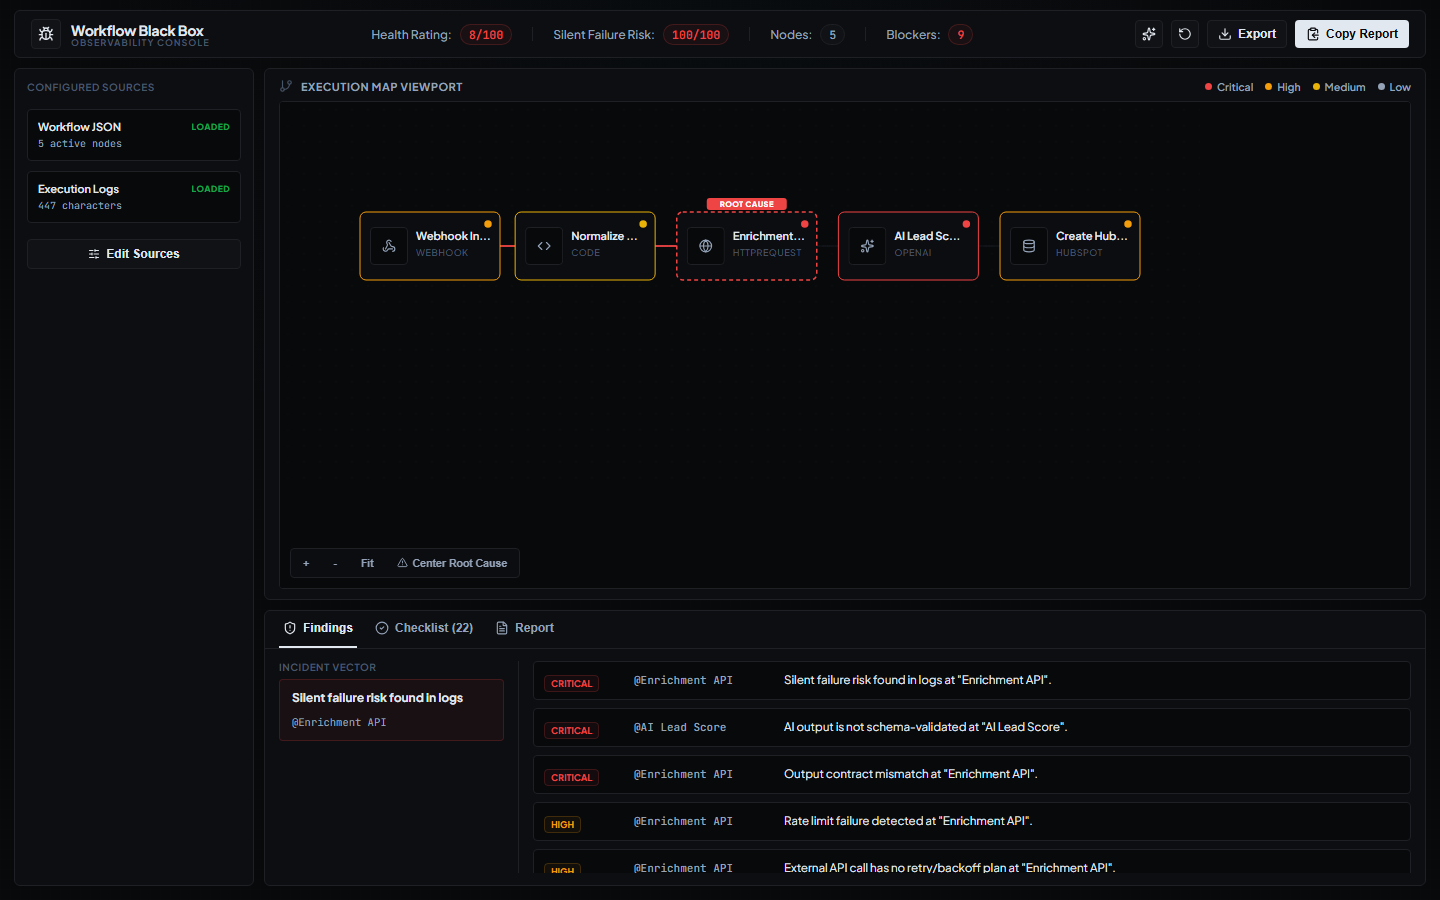
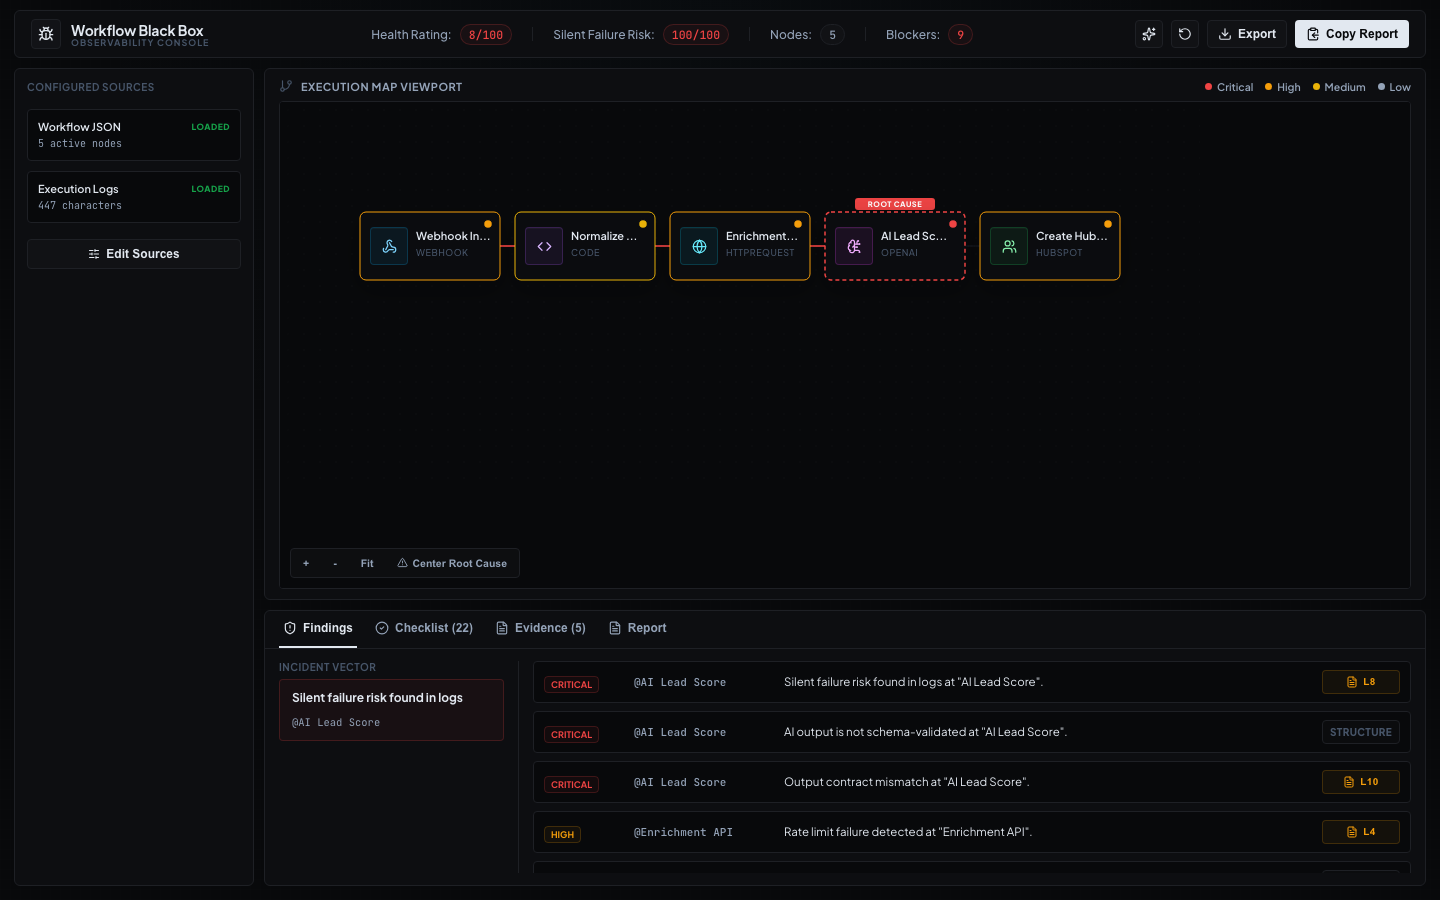
Mejora visual del mapa de workflows

diff --git a/src/App.tsx b/src/App.tsx
@@ -16,6 +16,22 @@ import {
   Globe,
   Database,
   Terminal,
+  Bot,
+  BrainCircuit,
+  Mail,
+  MessageSquare,
+  CreditCard,
+  CalendarClock,
+  Clock3,
+  Filter,
+  GitFork,
+  ShieldCheck,
+  KeyRound,
+  Table2,
+  FileSpreadsheet,
+  ShoppingCart,
+  Users,
+  Send,
   X,
   Trash2,
   ChevronLeft,
@@ -51,14 +67,41 @@ type LogLineView = {
 
 function getNodeIcon(type: string) {
   const t = type.toLowerCase();
-  if (t.includes("webhook")) return <Webhook size={14} />;
-  if (t.includes("code")) return <Code size={14} />;
-  if (t.includes("httprequest") || t.includes("http")) return <Globe size={14} />;
-  if (isAiVisualType(t)) return <Sparkles size={14} />;
-  if (t.includes("hubspot") || t.includes("salesforce") || t.includes("stripe") || t.includes("quickbooks")) {
-    return <Database size={14} />;
-  }
+  if (t.includes("webhook")) return <Webhook size={15} />;
+  if (t.includes("trigger")) return <GitFork size={15} />;
+  if (t.includes("if") || t.includes("switch") || t.includes("filter") || t.includes("router")) return <Filter size={15} />;
+  if (t.includes("code")) return <Code size={15} />;
+  if (t.includes("httprequest") || t.includes("http")) return <Globe size={15} />;
+  if (t.includes("openai") || t.includes("gemini") || t.includes("claude") || t.includes("anthropic")) return <BrainCircuit size={15} />;
+  if (isAiVisualType(t)) return <Bot size={15} />;
+  if (t.includes("gmail") || t.includes("mailchimp")) return <Mail size={15} />;
+  if (t.includes("slack") || t.includes("telegram") || t.includes("whatsapp") || t.includes("mattermost")) return <MessageSquare size={15} />;
+  if (t.includes("stripe") || t.includes("quickbooks") || t.includes("invoice")) return <CreditCard size={15} />;
+  if (t.includes("shopify") || t.includes("woocommerce")) return <ShoppingCart size={15} />;
+  if (t.includes("calendar") || t.includes("calendly")) return <CalendarClock size={15} />;
+  if (t.includes("cron") || t.includes("schedule")) return <Clock3 size={15} />;
+  if (t.includes("airtable") || t.includes("sheets")) return <Table2 size={15} />;
+  if (t.includes("spreadsheet") || t.includes("excel")) return <FileSpreadsheet size={15} />;
+  if (t.includes("hubspot") || t.includes("salesforce") || t.includes("pipedrive") || t.includes("zoho")) return <Users size={15} />;
+  if (t.includes("auth") || t.includes("credential")) return <KeyRound size={15} />;
+  if (t.includes("validation") || t.includes("validator")) return <ShieldCheck size={15} />;
+  if (t.includes("send")) return <Send size={15} />;
+  if (t.includes("database") || t.includes("postgres") || t.includes("supabase") || t.includes("mysql")) return <Database size={15} />;
   return <Terminal size={14} />;
+}
+
+function getNodeIconTone(type: string) {
+  const t = type.toLowerCase();
+  if (t.includes("webhook") || t.includes("trigger") || t.includes("cron") || t.includes("schedule")) return "trigger";
+  if (t.includes("if") || t.includes("switch") || t.includes("filter") || t.includes("router") || t.includes("validation")) return "logic";
+  if (t.includes("httprequest") || t.includes("http")) return "api";
+  if (isAiVisualType(t) || t.includes("openai") || t.includes("gemini") || t.includes("claude")) return "ai";
+  if (t.includes("gmail") || t.includes("slack") || t.includes("telegram") || t.includes("whatsapp") || t.includes("mail")) return "comms";
+  if (t.includes("hubspot") || t.includes("salesforce") || t.includes("pipedrive") || t.includes("zoho")) return "crm";
+  if (t.includes("stripe") || t.includes("quickbooks") || t.includes("shopify") || t.includes("woocommerce")) return "commerce";
+  if (t.includes("airtable") || t.includes("sheets") || t.includes("database") || t.includes("postgres") || t.includes("supabase")) return "data";
+  if (t.includes("code")) return "code";
+  return "default";
 }
 
 function isAiVisualType(type: string) {
@@ -1082,7 +1125,7 @@ function FlowGraph({
                 )}
                 <rect width="140" height="68" rx="6" className="bg" />
                 <foreignObject x="10" y="15" width="38" height="38">
-                  <div className="nodeIconBox">
+                  <div className={`nodeIconBox ${getNodeIconTone(node.type)}`}>
                     {getNodeIcon(node.type)}
                   </div>
                 </foreignObject>
@@ -1363,10 +1406,6 @@ function layoutGraph(nodes: FlowNode[], edges: FlowEdge[]): { nodes: FlowNode[];
 
   const nodeWidth = 140;
   const nodeHeight = 68;
-  const xGap = 230;
-  const yGap = 98;
-  const marginX = 80;
-  const marginY = 58;
   const nodeNames = new Set(nodes.map((node) => node.name));
   const validEdges = edges.filter((edge) => nodeNames.has(edge.source) && nodeNames.has(edge.target));
   const connectedNames = new Set(validEdges.flatMap((edge) => [edge.source, edge.target]));
@@ -1440,6 +1479,13 @@ function layoutGraph(nodes: FlowNode[], edges: FlowEdge[]): { nodes: FlowNode[];
 
   const orderedLevels = [...groups.keys()].sort((a, b) => a - b);
   const levelToColumn = new Map(orderedLevels.map((level, index) => [level, index]));
+  const maxRows = Math.max(1, ...orderedLevels.map((level) => groups.get(level)?.length ?? 1));
+  const compact = nodes.length <= 8 && maxRows <= 2;
+  const xGap = compact ? 155 : 230;
+  const yGap = compact ? 88 : 98;
+  const width = compact ? 920 : Math.max(920, 160 + nodeWidth + Math.max(0, orderedLevels.length - 1) * xGap);
+  const marginX = compact ? Math.max(56, (width - (nodeWidth + Math.max(0, orderedLevels.length - 1) * xGap)) / 2) : 80;
+  const marginY = compact ? 110 : 58;
   const laidOut: FlowNode[] = [];
 
   for (const level of orderedLevels) {
@@ -1456,11 +1502,10 @@ function layoutGraph(nodes: FlowNode[], edges: FlowEdge[]): { nodes: FlowNode[];
   }
 
   const maxColumn = Math.max(0, ...laidOut.map((node) => Math.round((node.x - marginX) / xGap)));
-  const maxRows = Math.max(1, ...orderedLevels.map((level) => groups.get(level)?.length ?? 1));
 
   return {
     nodes: laidOut.sort((a, b) => nodes.indexOf(nodeByName.get(a.name) ?? a) - nodes.indexOf(nodeByName.get(b.name) ?? b)),
-    width: Math.max(920, marginX * 2 + nodeWidth + maxColumn * xGap),
+    width: Math.max(width, marginX * 2 + nodeWidth + maxColumn * xGap),
     height: Math.max(380, marginY * 2 + nodeHeight + (maxRows - 1) * yGap),
   };
 }

diff --git a/src/styles.css b/src/styles.css
@@ -701,15 +701,16 @@ body {
 }
 
 .graphNode rect.bg {
-  fill: #0c0d10;
-  stroke: #1c1e22;
+  fill: #0b0c0f;
+  stroke: #20242b;
   stroke-width: 1px;
   transition: var(--transition-fast);
+  filter: drop-shadow(0 8px 14px rgba(0, 0, 0, 0.22));
 }
 
 .graphNode:hover rect.bg,
 .graphNode.selected rect.bg {
-  fill: #111216;
+  fill: #111318;
   stroke: var(--border-active);
 }
 
@@ -733,14 +734,69 @@ body {
   height: 100%;
   border-radius: var(--radius-sm);
   background: #08090b;
-  border: 1px solid var(--border-color);
+  border: 1px solid #20242b;
   color: var(--text-secondary);
+  box-shadow: inset 0 1px 0 rgba(255, 255, 255, 0.035);
 }
 
 .graphNode:hover .nodeIconBox,
 .graphNode.selected .nodeIconBox {
   color: var(--text-primary);
   border-color: var(--border-active);
+}
+
+.nodeIconBox.trigger {
+  color: #7dd3fc;
+  background: rgba(14, 165, 233, 0.08);
+  border-color: rgba(14, 165, 233, 0.22);
+}
+
+.nodeIconBox.logic {
+  color: #c4b5fd;
+  background: rgba(139, 92, 246, 0.08);
+  border-color: rgba(139, 92, 246, 0.22);
+}
+
+.nodeIconBox.api {
+  color: #67e8f9;
+  background: rgba(6, 182, 212, 0.08);
+  border-color: rgba(6, 182, 212, 0.22);
+}
+
+.nodeIconBox.ai {
+  color: #f0abfc;
+  background: rgba(217, 70, 239, 0.08);
+  border-color: rgba(217, 70, 239, 0.22);
+}
+
+.nodeIconBox.comms {
+  color: #93c5fd;
+  background: rgba(59, 130, 246, 0.08);
+  border-color: rgba(59, 130, 246, 0.22);
+}
+
+.nodeIconBox.crm {
+  color: #86efac;
+  background: rgba(34, 197, 94, 0.08);
+  border-color: rgba(34, 197, 94, 0.22);
+}
+
+.nodeIconBox.commerce {
+  color: #fdba74;
+  background: rgba(249, 115, 22, 0.08);
+  border-color: rgba(249, 115, 22, 0.22);
+}
+
+.nodeIconBox.data {
+  color: #5eead4;
+  background: rgba(20, 184, 166, 0.08);
+  border-color: rgba(20, 184, 166, 0.22);
+}
+
+.nodeIconBox.code {
+  color: #d8b4fe;
+  background: rgba(168, 85, 247, 0.08);
+  border-color: rgba(168, 85, 247, 0.22);
 }
 
 .nodeNameText {